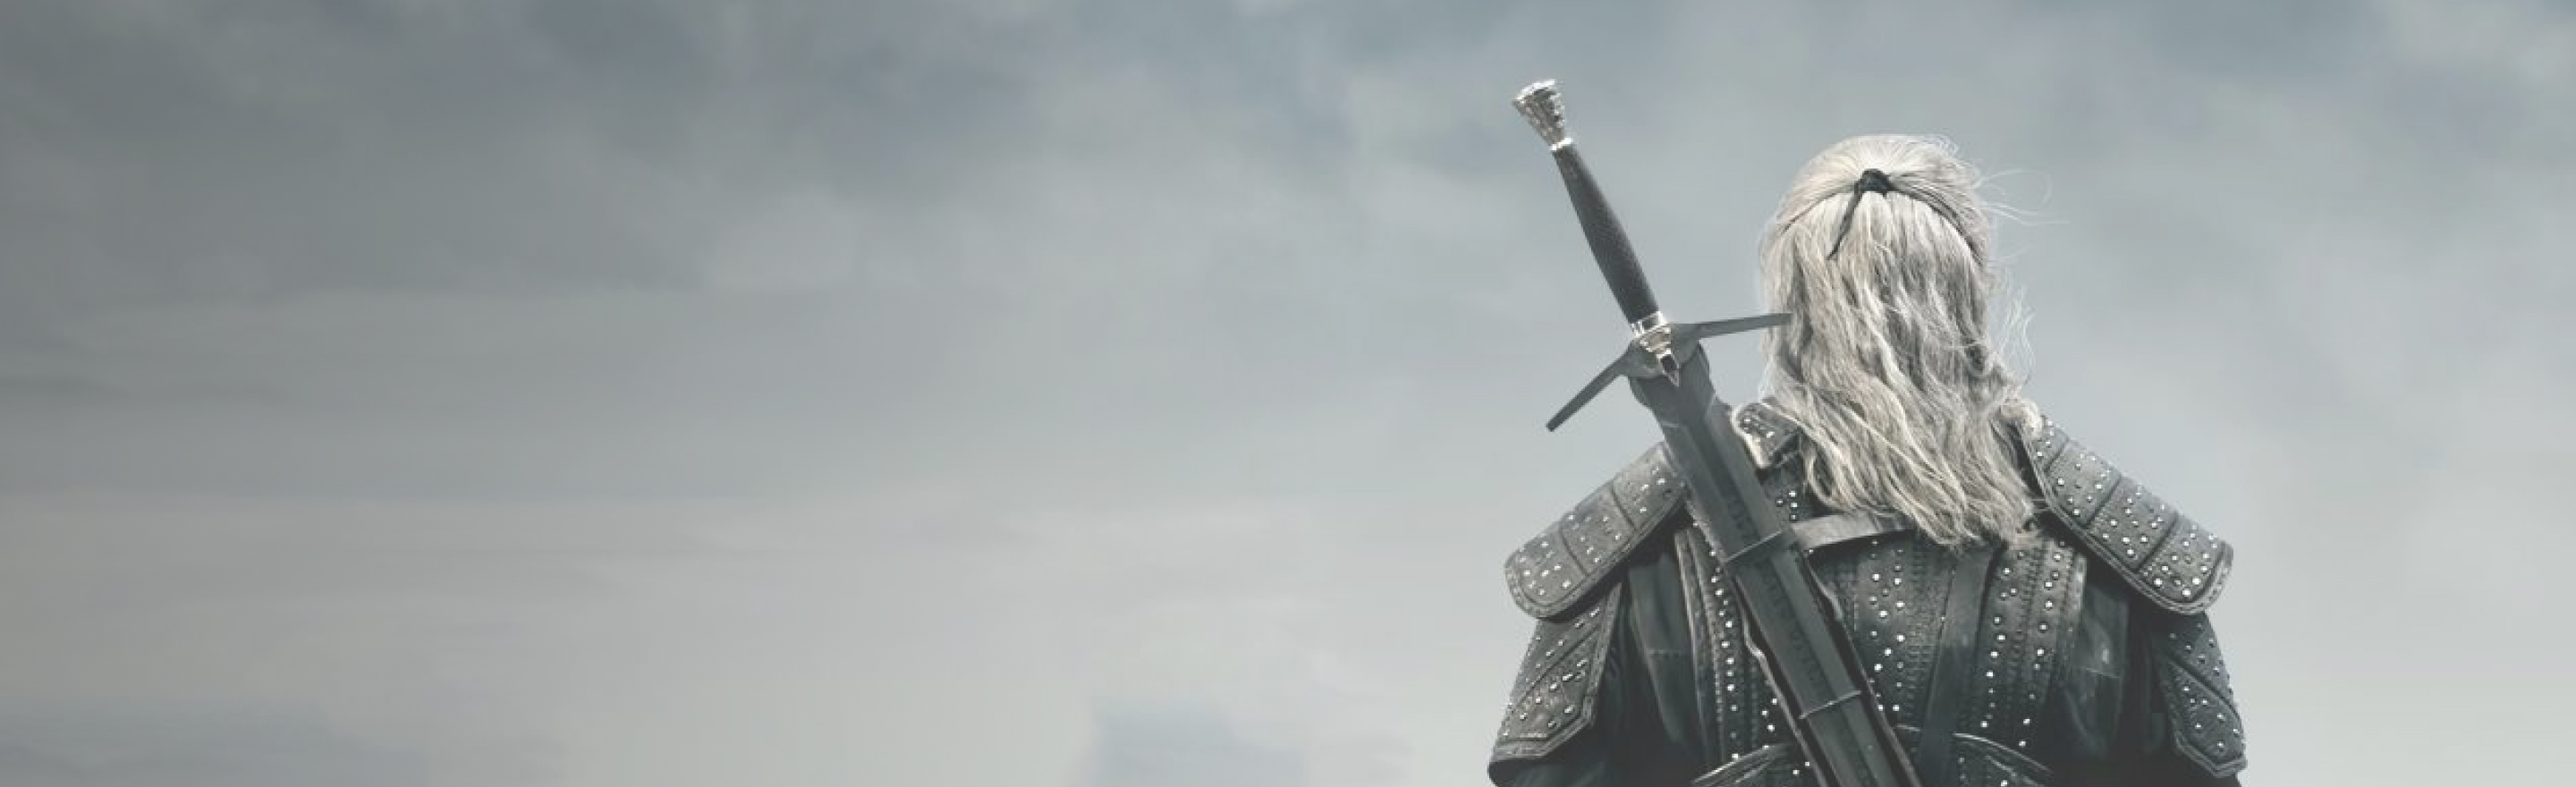
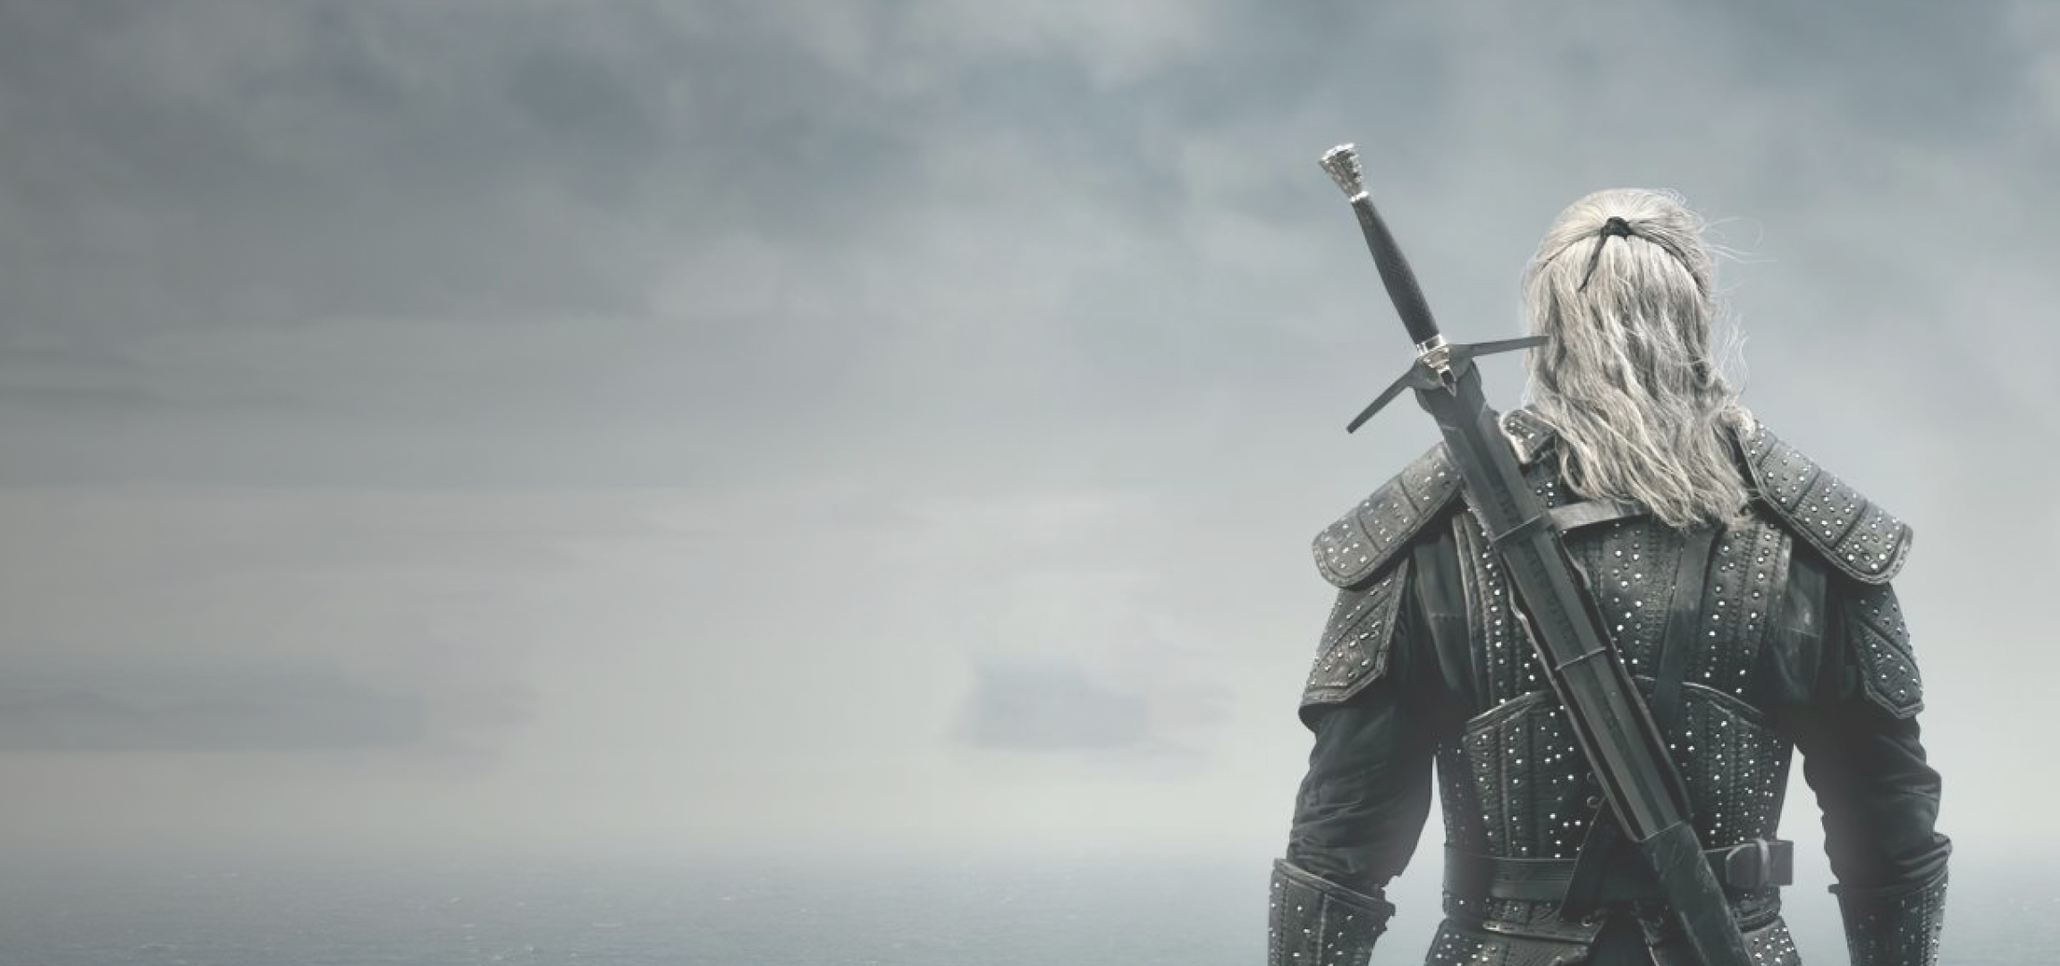
Адаптив главной страницы

diff --git a/src/shared/ui/SwiperCustom/Swiper.scss b/src/shared/ui/SwiperCustom/Swiper.scss
@@ -4,16 +4,17 @@
   overflow: visible;
 }
 
+.swiper-slide img {
+  width: 100%;
+}
+
 .swiper-pagination-progressbar {
   position: absolute;
   background: rgba(255, 255, 255, 0.2);
 }
 
 .swiper-horizontal > .swiper-pagination-progressbar,
-.swiper-pagination-progressbar.swiper-pagination-horizontal,
-.swiper-vertical
-  > .swiper-pagination-progressbar.swiper-pagination-progressbar-opposite,
-.swiper-pagination-progressbar.swiper-pagination-vertical.swiper-pagination-progressbar-opposite {
+.swiper-pagination-progressbar.swiper-pagination-horizontal {
   width: 100%;
   height: 2px;
   left: 0;
@@ -59,5 +60,39 @@
   cursor: auto;
   &:hover {
     filter: grayscale(1);
+  }
+}
+
+@media (max-width: 1250px) {
+  // .swiper-slide {
+  //   width: 256px !important;
+  // }
+  .swiper-slide img {
+    height: 360px;
+    object-fit: cover;
+    object-position: top;
+  }
+}
+
+@media (max-width: 767px) {
+  .swiper {
+    padding-top: 70px;
+  }
+  // .swiper-slide {
+  //   width: 216px !important;
+  // }
+  .swiper-slide img {
+    height: 280px;
+  }
+  .swiper-button-next,
+  .swiper-button-prev {
+    z-index: 10;
+  }
+  .swiper-button-prev {
+    right: 45px;
+  }
+  .swiper-horizontal > .swiper-pagination-progressbar,
+  .swiper-pagination-progressbar.swiper-pagination-horizontal {
+    top: 43px;
   }
 }

diff --git a/src/app/styles/variables.scss b/src/app/styles/variables.scss
@@ -9,11 +9,34 @@ html {
   --color-shadow-button: 0 2px 24px 0 rgba(255, 30, 30, 0.5);
   --color-input-default: rgba(255, 255, 255, 0.1);
   --color-input-error: rgba(236, 63, 63, 0.2);
-  --font-header1-size: 56px;
-  --font-header2-size: 40px;
-  --font-header3-size: 32px;
-  --font-header4-size: 24px;
   --font-text-size: 16px;
   --font-text-size-small: 14px;
   --font-text-family: "Futura PT Book", sans-serif;
+}
+
+@media (min-width: 1200px) {
+  html {
+    --font-header1-size: 56px;
+    --font-header2-size: 40px;
+    --font-header3-size: 32px;
+    --font-header4-size: 24px;
+  }
+}
+
+@media (max-width: 1339px) {
+  html {
+    --font-header1-size: 40px;
+    --font-header2-size: 32px;
+    --font-header3-size: 24px;
+    --font-header4-size: 20px;
+  }
+}
+
+@media (max-width: 767px) {
+  html {
+    --font-header1-size: 32px;
+    --font-header2-size: 28px;
+    --font-header3-size: 24px;
+    --font-header4-size: 16px;
+  }
 }

diff --git a/src/widgets/SeeSerial/ui/SeeSerialSection.tsx b/src/widgets/SeeSerial/ui/SeeSerialSection.tsx
@@ -3,14 +3,12 @@ import styles from "./SeeSerialSection.module.scss";
 import cover from "./cover.jpg";
 
 export function SeeSerialSection() {
+  const stylesObj = {
+    backgroundImage: `linear-gradient(270deg, rgba(0, 0, 0, 0.4) 0%, rgba(0, 0, 0, 0.4) 100%), url(${cover})`,
+  };
+
   return (
-    <section
-      className={styles.seeserial}
-      style={{
-        background: `linear-gradient(270deg, rgba(0, 0, 0, 0.4) 0%, rgba(0, 0, 0, 0.4) 100%), url(${cover})`,
-        backgroundSize: "cover",
-      }}
-    >
+    <section className={styles.seeserial} style={stylesObj}>
       <div className={`${styles.container} container`}>
         <h1 className={styles.title}>Сериал Ведьмак</h1>
         <p className={styles.desc}>

diff --git a/src/widgets/KadrSection/ui/KadrSection.module.scss b/src/widgets/KadrSection/ui/KadrSection.module.scss
@@ -1,5 +1,5 @@
 .kadr {
-  margin-bottom: 100px;
+  margin-bottom: 75px;
 }
 
 .kadrcontainer {
@@ -14,8 +14,37 @@
   }
   & img {
     width: 100%;
+    height: 100%;
     aspect-ratio: 1 / 1;
     object-fit: cover;
     object-position: center;
+  }
+}
+
+@media (max-width: 820px) {
+  .kadr {
+    margin-bottom: 65px;
+  }
+  .kadrcontainer {
+    margin: 30px 0 20px;
+    grid-template-rows: 148px 148px;
+    gap: 16px;
+  }
+}
+
+@media (max-width: 767px) {
+  .kadr {
+    margin-bottom: 50px;
+  }
+  .kadrcontainer {
+    grid-template-columns: 1fr;
+    grid-template-rows: auto;
+    & div:first-child {
+      grid-column: 1;
+      grid-row: 1;
+    }
+    & img {
+      aspect-ratio: 16 / 9;
+    }
   }
 }

diff --git a/src/widgets/Footer/ui/Footer.module.scss b/src/widgets/Footer/ui/Footer.module.scss
@@ -46,8 +46,41 @@
 }
 
 .paragraphtitle {
-  margin: 35px 0 25px;
+  margin: 35px 0 20px;
   font-weight: 600;
   font-size: var(--font-text-size-small);
   line-height: 150%;
+}
+
+@media (max-width: 1024px) {
+  .footer {
+    padding: 45px 65px;
+  }
+  .footercontainer {
+    padding: 0;
+  }
+  .paragraphtitle {
+    margin: 30px 0 20px;
+  }
+  .paragraph:not(:last-of-type) {
+    margin-bottom: 35px;
+  }
+}
+
+@media (max-width: 767px) {
+  .footer {
+    padding: 20px 15px;
+  }
+  .footercontainer {
+    flex-wrap: wrap;
+  }
+  .policy {
+    width: auto;
+    order: 3;
+  }
+  .social {
+    & a {
+      margin-left: 13px;
+    }
+  }
 }

diff --git a/src/widgets/SeeSerial/ui/SeeSerialSection.module.scss b/src/widgets/SeeSerial/ui/SeeSerialSection.module.scss
@@ -2,6 +2,8 @@
   width: 100%;
   height: 440px;
   margin-bottom: 70px;
+  background-size: cover;
+  background-repeat: no-repeat;
   & .container {
     height: 100%;
     display: flex;
@@ -19,4 +21,26 @@
 .desc {
   width: 430px;
   margin: 25px 0 40px;
+}
+
+@media (max-width: 1024px) {
+  .seeserial {
+    height: 360px;
+    & .desc {
+      width: 60%;
+      min-width: 250px;
+      margin: 20px 0 25px;
+    }
+  }
+}
+
+@media (max-width: 767px) {
+  .seeserial {
+    height: 350px;
+    margin-bottom: 20px;
+    background-position-x: right;
+    & .desc {
+      margin: 5px 0 30px;
+    }
+  }
 }

diff --git a/src/widgets/ShopSection/ui/ShopSection.module.scss b/src/widgets/ShopSection/ui/ShopSection.module.scss
@@ -1,10 +1,30 @@
 .shop {
-    margin-bottom: 90px;
+  margin-bottom: 90px;
 }
 
 .map {
-    margin-top: 40px;
-    filter: grayscale(100%) brightness(0.7);
-    opacity: 0.9;
+  margin-top: 40px;
+  filter: grayscale(100%) brightness(0.7);
+  opacity: 0.9;
 }
 
+@media (max-width: 1024px) {
+  .shop {
+    margin-bottom: 0;
+  }
+  .map {
+    margin-top: 25px;
+  }
+  iframe {
+    width: 100vw;
+    height: 400px;
+    transform: translateX(-65px);
+  }
+}
+
+@media (max-width: 767px) {
+  iframe {
+    height: 400px;
+    transform: translateX(-15px);
+  }
+}

diff --git a/src/shared/ui/SwiperCustom/SwiperCustom.tsx b/src/shared/ui/SwiperCustom/SwiperCustom.tsx
@@ -20,7 +20,20 @@ export function SwiperCustom({ children }: SwiperProps) {
       modules={[Pagination, Navigation]}
       ref={swiperRef}
       spaceBetween={24}
-      slidesPerView={4}
+      breakpoints={{
+        320: {
+          slidesPerView: 1,
+        },
+        768: {
+          slidesPerView: 2,
+        },
+        1024: {
+          slidesPerView: 3,
+        },
+        1250: {
+          slidesPerView: 4,
+        },
+      }}
     >
       <div className="pagination" />
       {children}

diff --git a/src/widgets/ActorsSection/ui/ActorsSection.module.scss b/src/widgets/ActorsSection/ui/ActorsSection.module.scss
@@ -62,3 +62,36 @@
   visibility: hidden;
   transition: 0.4s;
 }
+
+@media (max-width: 1024px) {
+  .actors {
+    margin-bottom: 50px;
+  }
+  .card:hover {
+    & .text {
+      transform: translateY(-265px);
+    }
+  }
+  .text,
+  .desc {
+    left: 15px;
+  }
+}
+
+@media (max-width: 767px) {
+  .actors {
+    margin-bottom: 60px;
+  }
+  .text,
+  .desc {
+    bottom: 23px;
+  }
+  .desc {
+    width: 90%;
+  }
+  .card:hover {
+    & .text {
+      transform: translateY(-200px);
+    }
+  }
+}

diff --git a/src/widgets/ShopSection/ui/ShopSection.tsx b/src/widgets/ShopSection/ui/ShopSection.tsx
@@ -7,7 +7,7 @@ export function ShopSection() {
       <div className={styles.map}>
         <iframe
           src="https://yandex.ru/map-widget/v1/?um=constructor%3Aa1c87e2e5b60473b394ff12f80e04cf65b59d16ed9c24daef1767715dc8664b7&amp;source=constructor"
-          width="1200"
+          width="100%"
           height="540"
         ></iframe>
       </div>

diff --git a/src/widgets/Header/ui/Header.module.scss b/src/widgets/Header/ui/Header.module.scss
@@ -5,3 +5,25 @@
   flex: 0 0 auto;
   padding: 20px 0;
 }
+
+@media (max-width: 1250px) {
+  .header {
+    padding: 20px 65px;
+  }
+}
+
+@media (max-width: 1024px) {
+  .header {
+    padding: 10px 65px;
+  }
+}
+
+@media (max-width: 767px) {
+  .header {
+    padding: 17px 15px;
+  }
+  .logo img {
+    width: 106px;
+    height: 36px;
+  }
+}

diff --git a/src/shared/ui/Modal/ui/Modal.module.scss b/src/shared/ui/Modal/ui/Modal.module.scss
@@ -41,3 +41,20 @@
   right: 32px;
   cursor: pointer;
 }
+
+@media (max-width: 1024px) {
+  .content {
+    width: 100%;
+    margin: 0 25px;
+    padding: 45px 40px;
+  }
+}
+
+@media (max-width: 767px) {
+  .content {
+    height: 100%;
+    max-height: 100%;
+    margin: 0;
+    padding: 25px 15px;
+  }
+}
